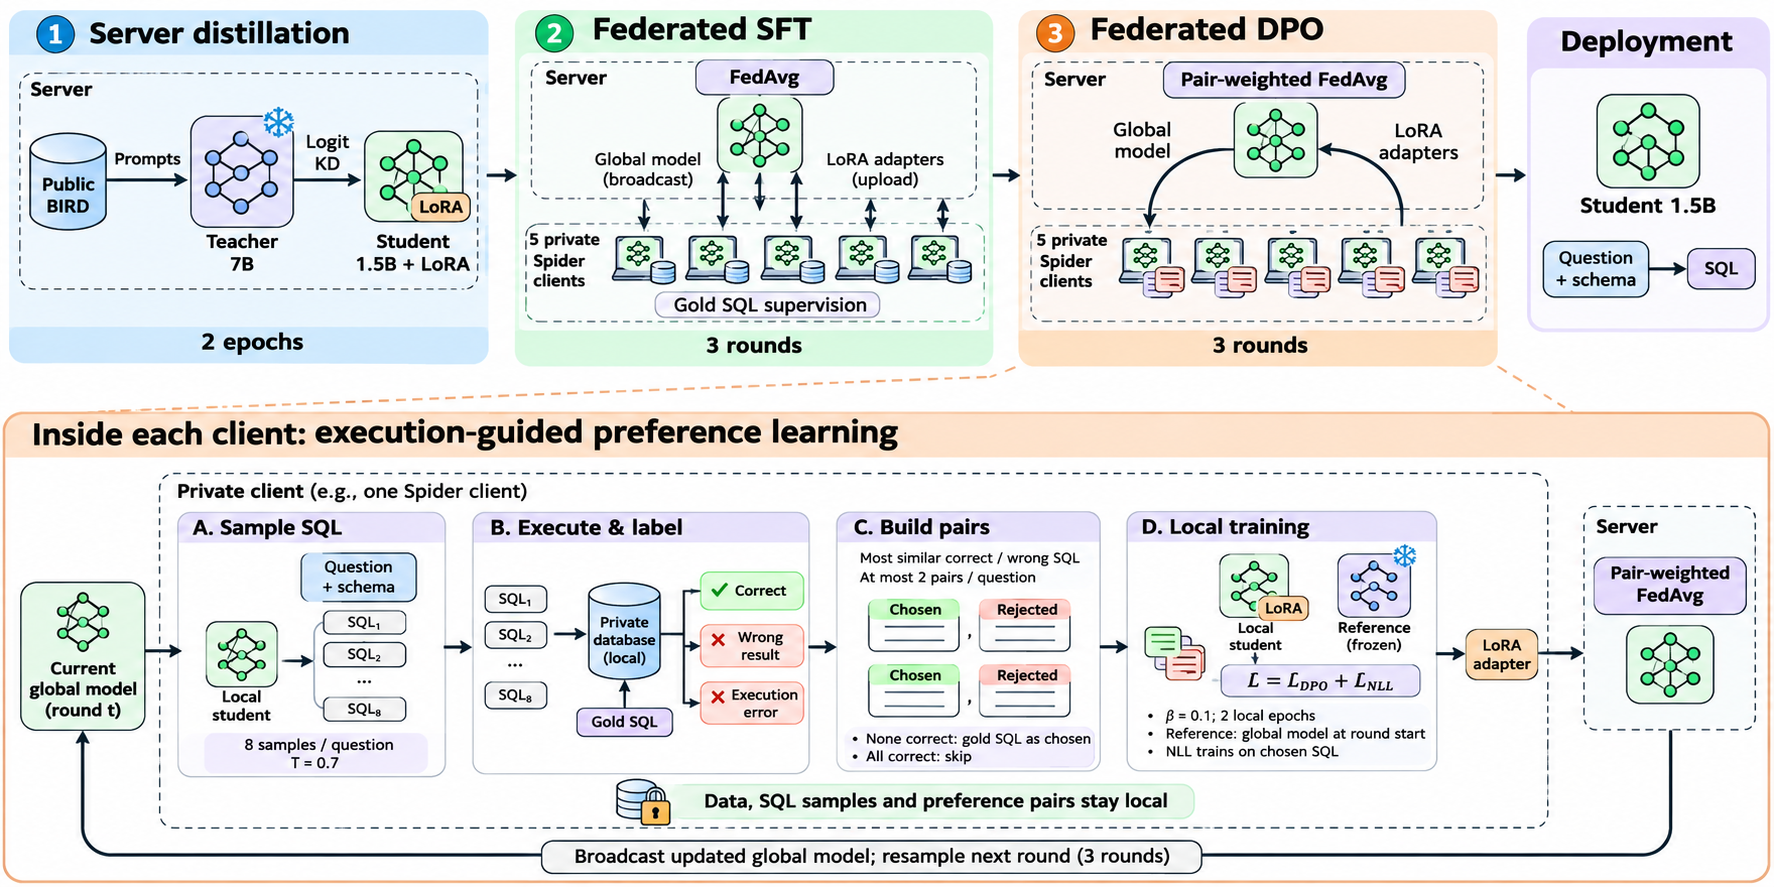
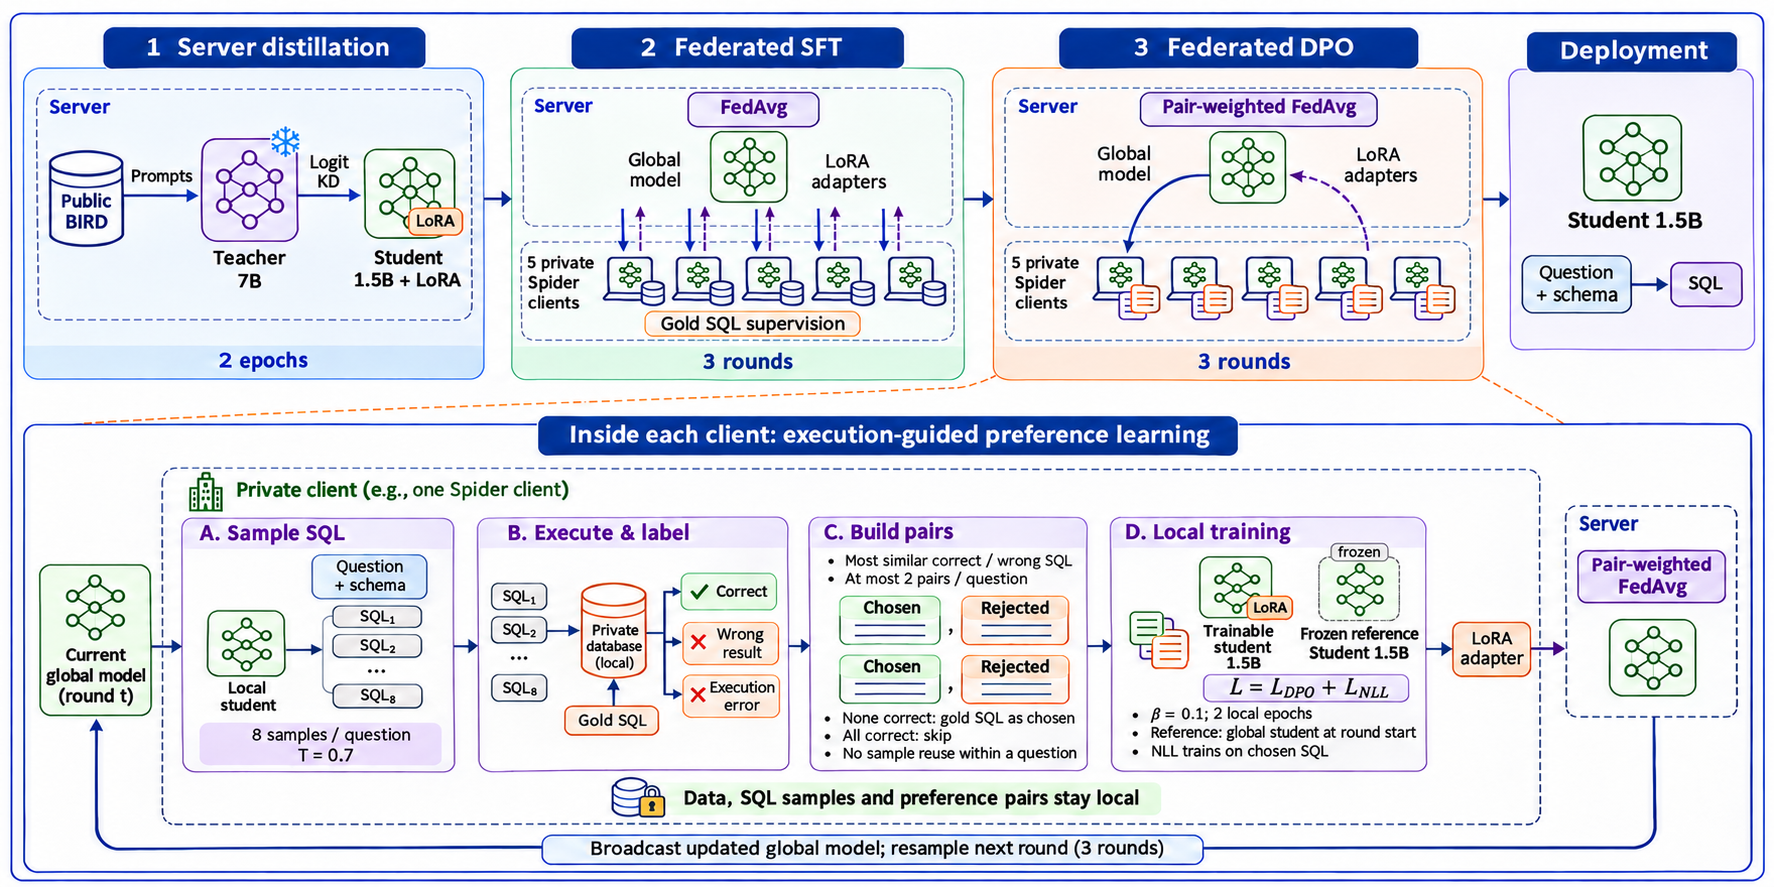
docs: restyle method figure and clarify DPO reference

diff --git a/paper/drafts/figures/fedls_sql_method.prompt.md b/paper/drafts/figures/fedls_sql_method.prompt.md
@@ -1,10 +1,21 @@
 # FedLS-SQL method figure
 
 Source: `../advisor_report_2026-11-11.md`, Method section.
-Generator: built-in imagegen.
+Generator: built-in imagegen, image edit.
+Style reference: architecture figure supplied by the owner in this session.
 
-## Prompt
+## Style edit prompt
 
+EDIT THE EXISTING FedLS-SQL METHOD FIGURE USING THE UPLOADED REFERENCE'S VISUAL STYLE.
+
+Two images are supplied. The image headed "Federated Coordination Server (Cloud)" with a "Key Innovations" sidebar is the STYLE REFERENCE ONLY. The image headed "1 Server distillation", "2 Federated SFT", "3 Federated DPO", with a lower inset "Inside each client: execution-guided preference learning", is the EDIT TARGET and the content source. Keep the edit target's method, semantic content and overall upper-overview / lower-client-inset arrangement. Do not transfer any method claims or architecture from the style reference.
+
+STYLE TO MATCH CLOSELY:
+White or nearly white canvas, thin crisp deep royal-blue outer borders and rounded-corner panels, compact navy title tabs with white bold text, restrained fine line icons drawn in navy, purple, forest green and orange. Use black readable regular-weight sans-serif body text and small colored bold subheadings. Panel bodies nearly white with extremely faint color tints only, like the reference. Database cylinders, neural-network diagrams, model icons, local-building/computer icons and document icons in the same formal technical line-art language as the reference. Slim arrow shafts and neat triangular arrowheads; color-code blue model broadcasts, purple adapter uploads (dashed), orange local SQL/preference flow, green local processing. A small four-item flow legend can sit in unused whitespace if needed, without displacing method content. Aim for precise journal architecture figure styling, not pastel cartoon cards.
+Eliminate the target's thick colored header bands, large numbered circles, heavy rounded cartoon model tiles, chunky black arrows, pale-green neural-network blob motifs and tinted gradient backgrounds. Replace those with the reference's slim, clean, technical panels and smaller refined icons. No glossy lighting, no heavy borders, no shadows, no emojis. Use consistent text sizes and margins.
+The top three stages can each use a navy tab with white title; lower inset uses a similar navy tab. Fine purple teacher/model outlines, orange SQL and pair construction outlines, green private client scope, blue server scope. Keep generous enough whitespace so the image is readable inside a paper. Preserve all content details in a high resolution wide landscape image, preferably 3200 by 1600 or larger equivalent aspect ratio. Do not crop text.
+
+EXACT SEMANTIC REQUIREMENTS, from the target's original specification (the OLD pastel-style instructions below are superseded by the reference-style instructions above):
 Use case: infographic-diagram.
 Asset type: a publication-ready method overview figure for a machine-learning research paper, wide landscape approximately 2:1, high resolution, sharp legible English labels.
 Primary request: Illustrate the EXACT three-stage FedLS-SQL method below. Produce a polished academic illustration rather than a generic box-only flowchart. White background, restrained soft pastel blue, mint/teal, pale peach and lavender, thin dark slate outlines, flat vector-like drawings of model blocks, tiny neural-network nodes, database cylinders, document stacks and local client workstations. Clear hierarchy, carefully aligned layout, generous breathing space, consistent sans-serif typography. No gradients, no glossy effects, no shadows, no emojis, no mascot, no decorative illustrations unrelated to the method. The DPO stage is the main visual emphasis.
@@ -31,3 +42,24 @@ D: title "Local training". Draw local student model, a frozen reference model an
 At right of private inset, outside the client boundary, draw the SERVER aggregator icon labeled "Pair-weighted FedAvg". Adapter upload arrow from local training to server. Return arrow along the bottom from this server to the sampling step labeled "Broadcast updated global model; resample next round". This is a 3-round loop. The reference copy refreshes from the global model at the beginning of every round, not from the teacher.
 Within the bottom edge of private client boundary, place a restrained lock/database pictogram and exact label "Data, SQL samples and preference pairs stay local". This is structural data isolation, so do not show differential privacy or cryptographic claims.
 Keep the whole drawing visually balanced with large readable text and a coherent pastel academic illustration style. No metrics, plots, reported experimental results, paper title banner, figure number, caption, citations or watermark. No teacher on clients. Do not introduce retrieval, CoT, rewards or GRPO. English labels only.
+
+
+ADDITIONAL INVARIANTS:
+- The picture must show exactly five clients in each federated overview stage.
+- The uploaded reference's retrieval, ICL, encrypted uploads, secure aggregation, TLS, differential privacy, schema embeddings, knowledge cache, reasoning and structure losses must NOT appear. Those are NOT part of this method.
+- Reference model inside local training is the frozen global model at the round start, not the 7B teacher.
+- Public BIRD supplies data for the server student/teacher distillation, not private Spider data.
+- Deployed student alone receives question and schema and generates SQL. Depiction must clearly link Question + schema -> Student 1.5B -> SQL within the Deployment panel.
+- "Correct" and "Wrong result" labels refer to comparison of execution results to gold; "Execution error" means SQL cannot execute.
+- "No sample reuse" may appear as a small label within Build pairs if space allows.
+- Keep exact names "FedLS-SQL", "LoRA", "FedAvg", "DPO", "NLL" if used.
+FINAL STYLE PRIORITY: emulate the provided technical blue-bordered reference, not the existing soft-pastel figure.
+
+## Reference model clarification edit
+
+Edit only the lower "D. Local training" panel of this FedLS-SQL method illustration. Preserve the entire image's blue-bordered technical academic style, layout, every other panel, all labels, all arrows and all method details.
+The purple frozen reference network currently resembles the server's teacher. This causes a serious misunderstanding. The DPO reference is NOT the 7B teacher. It is a frozen copy of the GLOBAL STUDENT 1.5B at the beginning of the round.
+Inside "D. Local training", replace the two model icons with two IDENTICAL small green student neural-network model icons, matching the upper deployment student design. Left icon: tiny orange LoRA badge, label exactly "Trainable student" with "1.5B" below. Right icon: same green student network icon, NO snowflake, NO brain, NO teacher symbol, NO 7B, label exactly "Frozen reference" with "Student 1.5B" below. Distinguish frozen status by a small unobtrusive gray "frozen" tag or simple dashed outline only. Keep both models visually the same size and same network structure.
+Keep the equation L = L_DPO + L_NLL intact. In the bullets beneath, replace "Reference: global model at round start" with the concise exact phrase "Reference: global student at round start". Preserve beta = 0.1, 2 local epochs, and NLL trains on chosen SQL. Ensure all text fits without overlap or clipping.
+The large Teacher 7B in the top-left Server distillation panel stays unchanged. That is the only teacher in the figure.
+Do not change anything else. High resolution, all labels readable.
